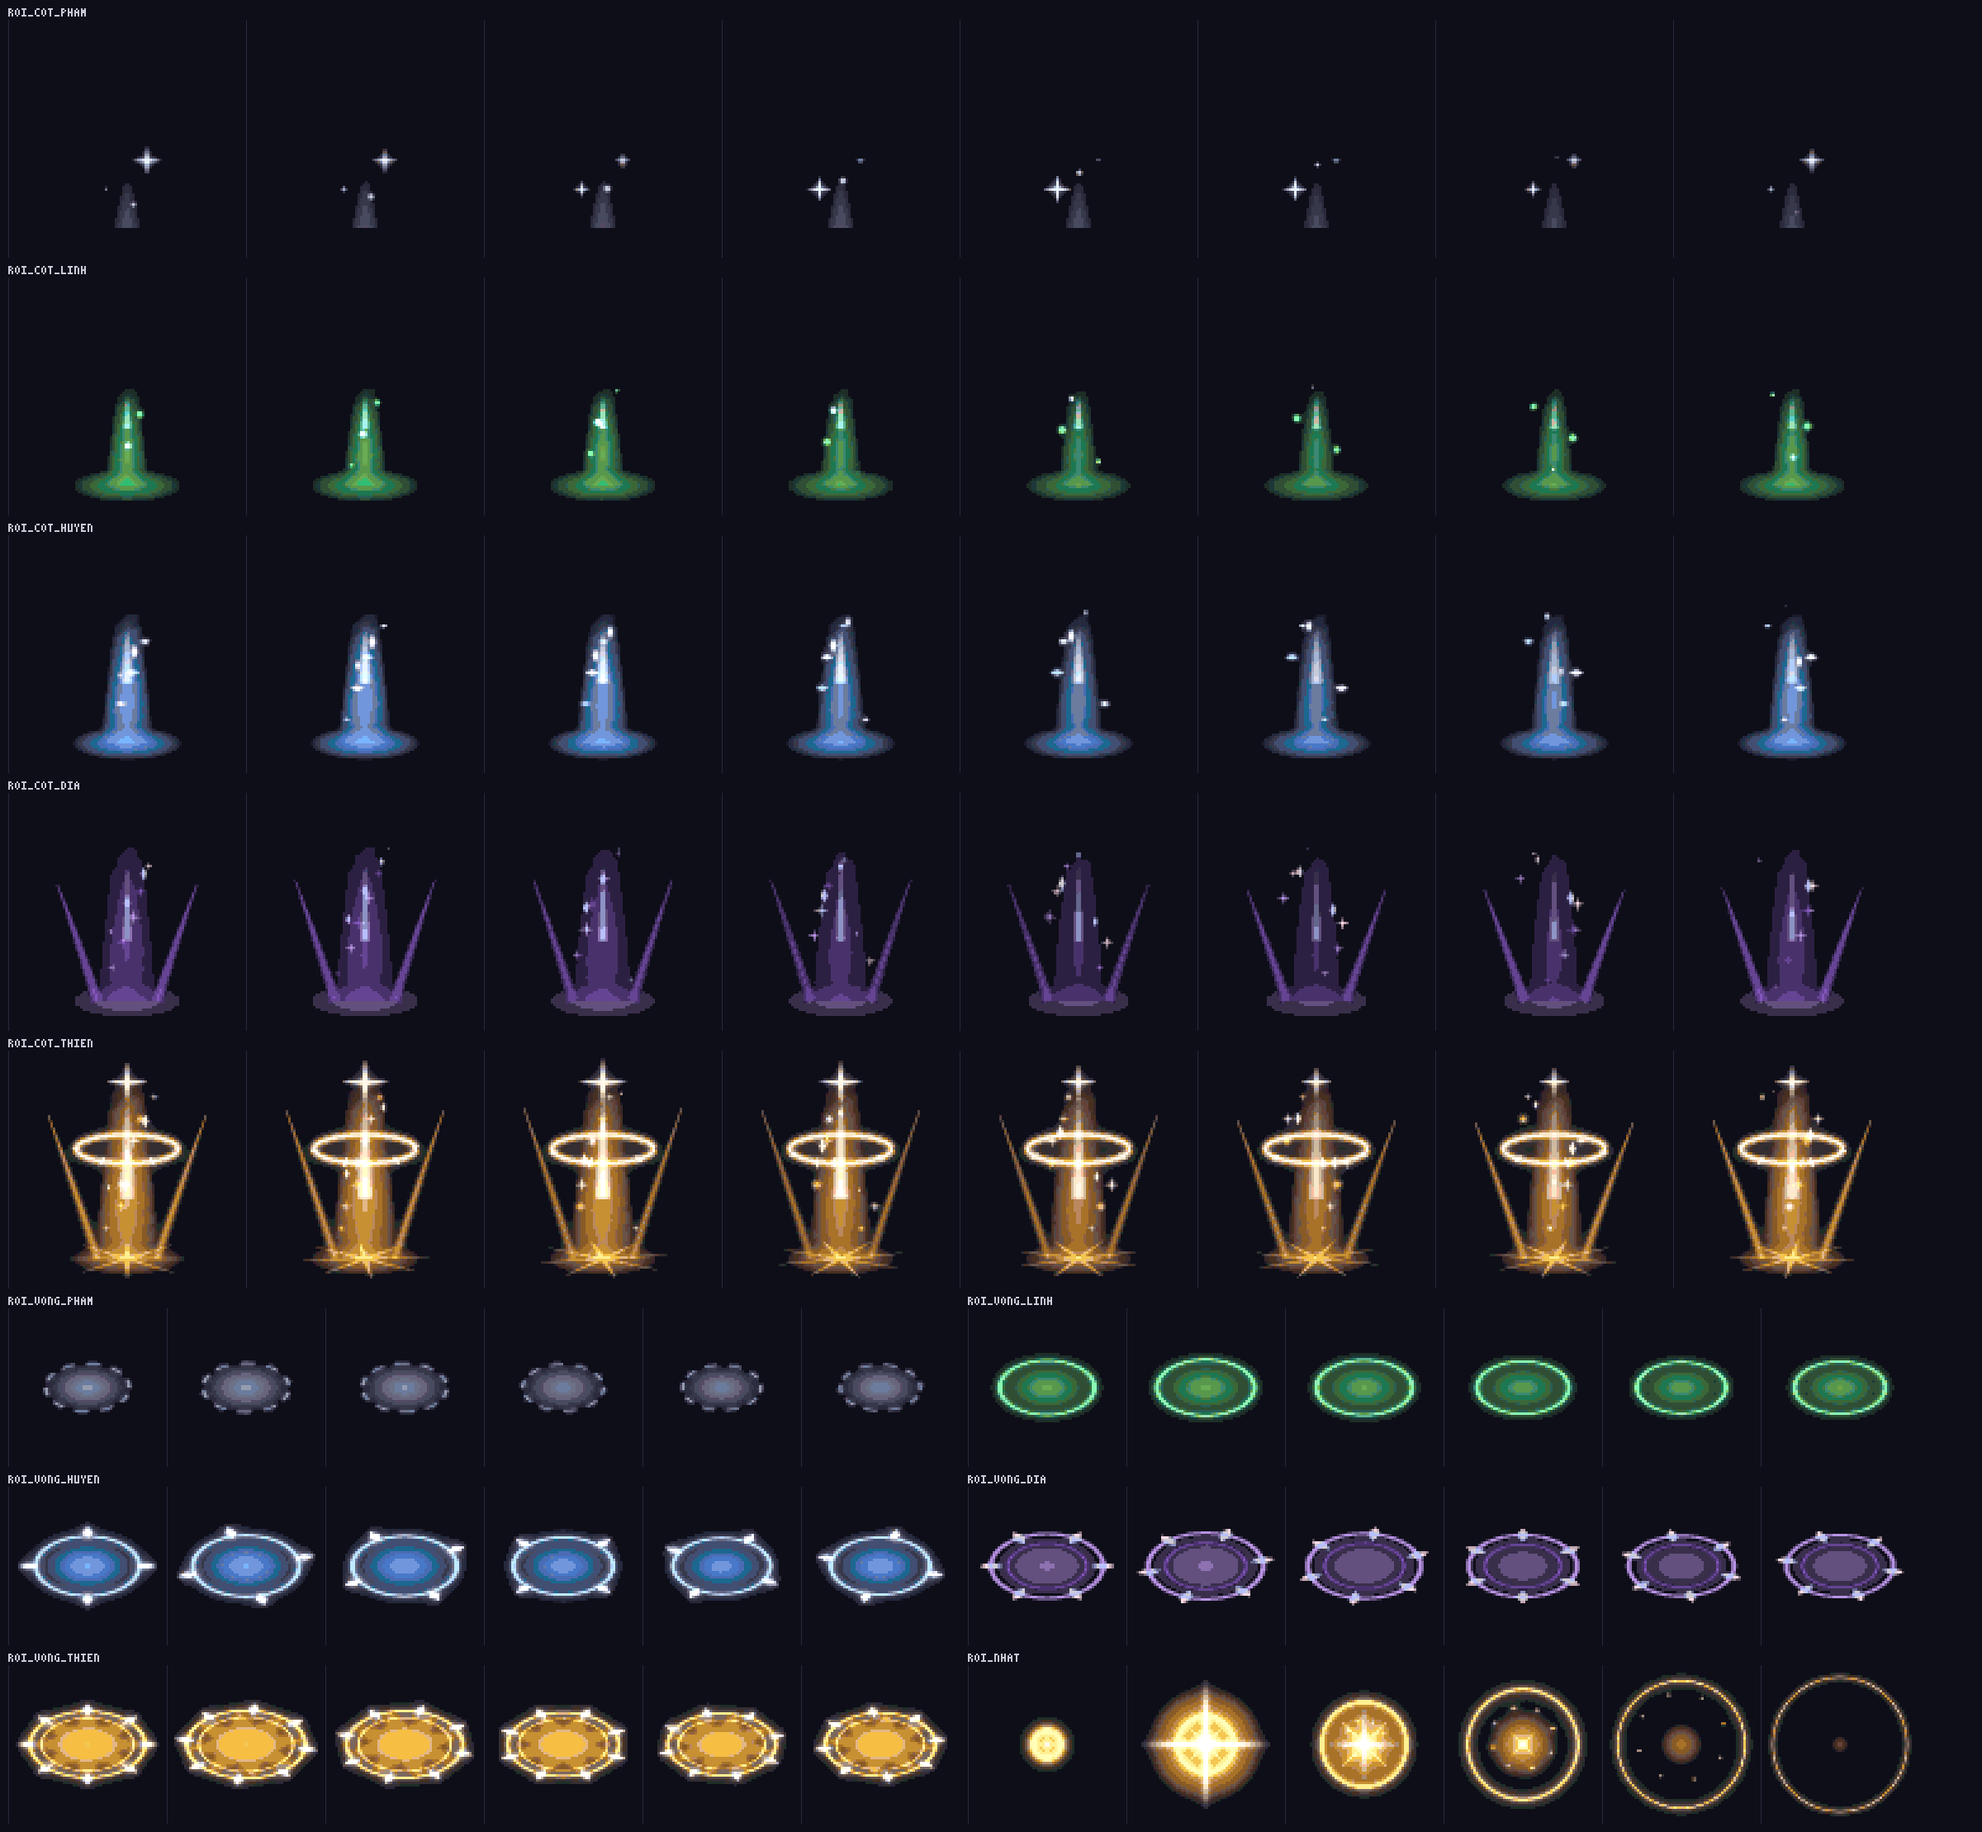
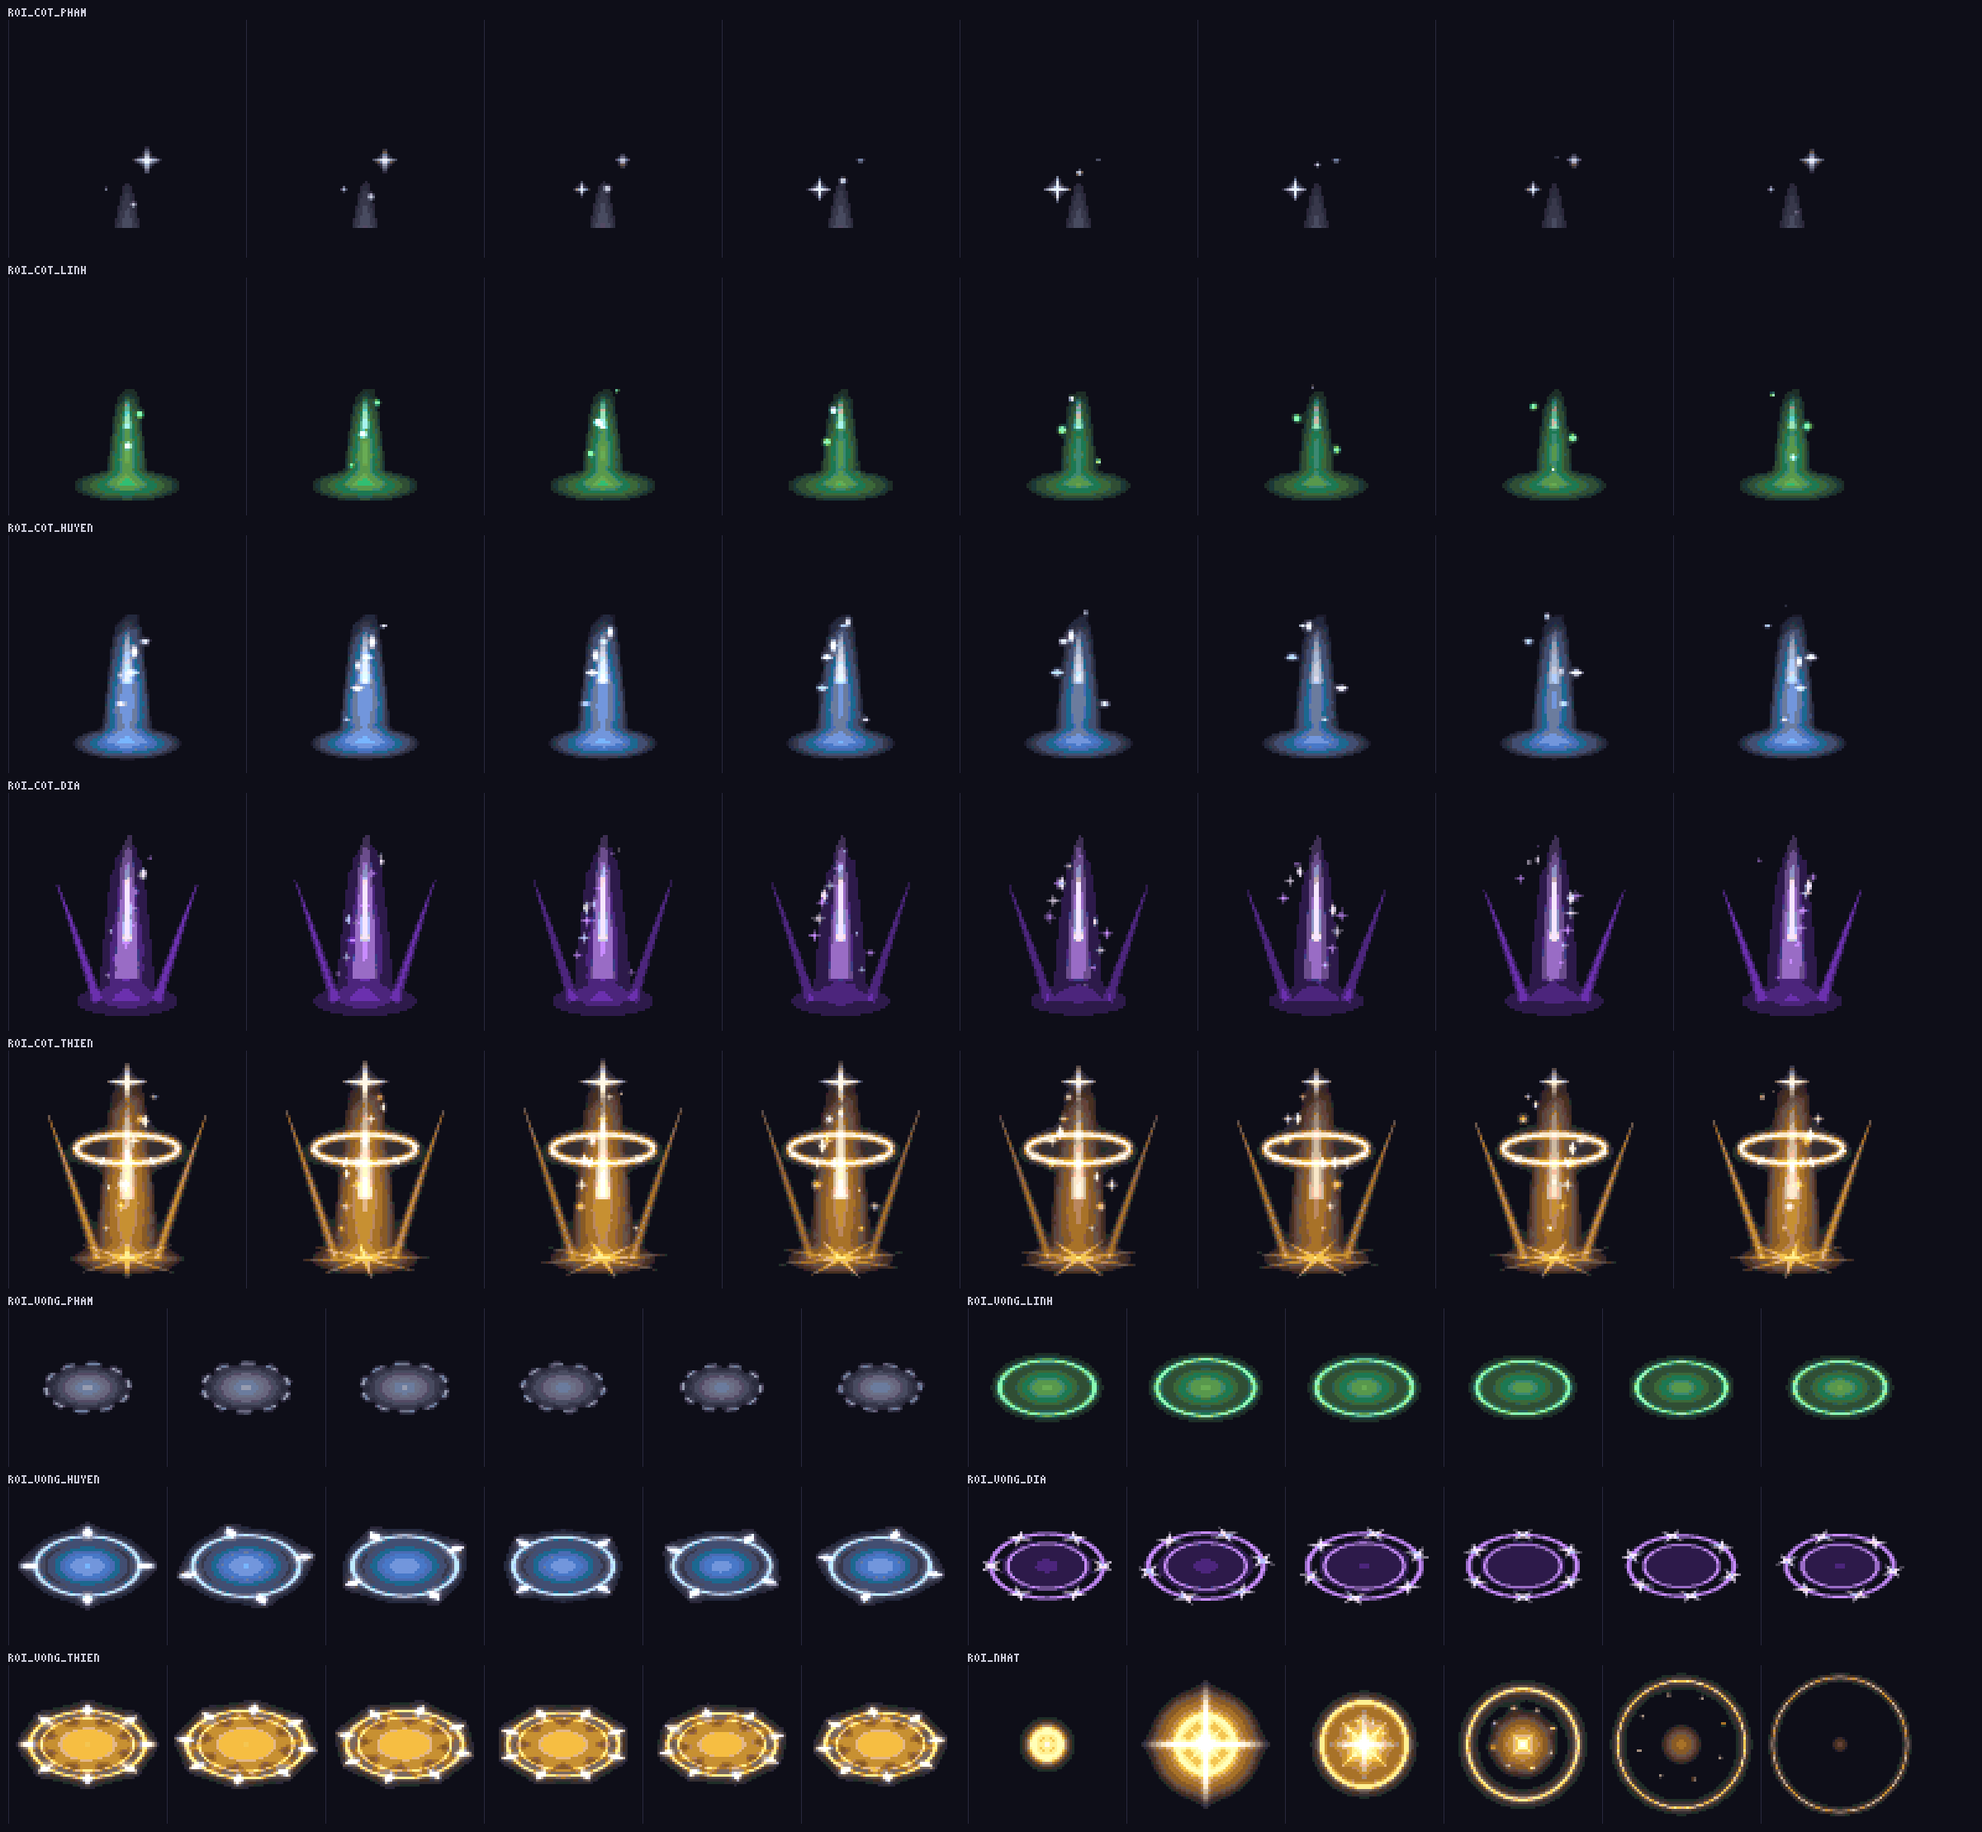
Toán tu tiên: Địa phẩm tím sáng rõ hơn Huyền (cột tím nhạt, lõi trắng tím, vòng sáng, sao)

diff --git a/art/src/fx_tien_ich/ti_roi.py b/art/src/fx_tien_ich/ti_roi.py
@@ -17,7 +17,7 @@ C = {  # body (glow edge), mid, core -> all are glow-ramp colours; the palette s
     "pham": dict(vi="Phàm", body="#8a8f9c", mid="#b8bdc3", core="#e8ecf0"),
     "linh": dict(vi="Linh", body="#22b05a", mid="#7aec9a", core="#e4ffe8"),
     "huyen": dict(vi="Huyền", body="#6aa8e8", mid="#b0dcff", core="#f2fbff"),
-    "dia": dict(vi="Địa", body="#8456be", mid="#a878dc", core="#e4d0fa"),   # clearly purple; alpha sheets (additive washes to lavender on grass)
+    "dia": dict(vi="Địa", body="#8a3ce0", mid="#c88cff", core="#f6e6ff"),   # clearly purple; alpha sheets (additive washes to lavender on grass)
     "thien": dict(vi="Thiên", body="#e8b02a", mid="#ffe27a", core="#fffbe4"),
 }
 HEIGHT = dict(pham=0.9, linh=1.4, huyen=1.85, dia=2.25, thien=2.6)
@@ -43,14 +43,14 @@ def make_cot(r):
              where="soft column of light standing on a dropped weapon of grade %s (pivot = base of the column)" % c["vi"])
     rng = fx.rng
     H, W = HEIGHT[r], WIDTH[r]
-    body = fx.mat("body", c["body"], grad=dict(src="attr", pow=0.55 if r == "dia" else 1.0, cpow=2.2), core=c["mid"])
-    core = fx.mat("core", c["core"], grad=dict(src="attr", pow=0.6))
+    body = fx.mat("body", c["body"], grad=dict(src="attr", pow=0.5 if r == "dia" else 1.0, cpow=2.2), core=("#8a3ce0" if r == "dia" else c["mid"]))
+    core = fx.mat("core", c["core"], grad=dict(src="attr", pow=0.12 if r == "dia" else 0.6))
     solid = fx.mat("solid", c["core"])
     midm = fx.mat("mid", c["mid"], grad=dict(src="attr", pow=0.7))
-    bloom = fx.mat("bloom", c["mid"] if r == "dia" else c["body"], grad=dict(src="attr", pow=0.6 if r == "dia" else 1.3))
+    bloom = fx.mat("bloom", c["body"], grad=dict(src="attr", pow=0.6 if r == "dia" else 1.3))
     pulse = lambda t, ph=0.0: 0.5 + 0.5 * math.sin(TAU * t + ph)
-    KB = dict(dia=0.85, thien=0.6).get(r, 1.0)      # ground bloom brightness
-    KC = 0.85                   # column alpha (dia is an alpha sheet)
+    KB = dict(dia=0.7, thien=0.6).get(r, 1.0)      # ground bloom brightness
+    KC = 0.8                   # column alpha (dia is an alpha sheet)
 
     if r == "pham":
         # a faint haze and two twinkling glints: a shimmer, no pillar
@@ -70,15 +70,19 @@ def make_cot(r):
     # the column: wide soft body + thin bright core
     cb = column(W, H, taper=0.5, p=0.85, base=0.35).build(fx, "col", body)
     fx.track(cb, lambda t, i: dict(sx=1.0 + 0.06 * math.sin(TAU * t + 0.5), op=(0.8 + 0.2 * math.sin(TAU * t + 1.0)) * KC))
+    if r == "dia":      # a luminous light-violet inner column (alpha sheets can carry bright pixels)
+        lm = fx.mat("light", "#c88cff", grad=dict(src="attr", pow=0.45))
+        lc = column(W * 0.46, H * 0.92, taper=0.65, p=0.7, base=0.5, y0=0.3).build(fx, "light", lm)
+        fx.track(lc, lambda t, i: dict(sx=1.0 + 0.05 * math.sin(TAU * t + 2.0), op=0.8 + 0.1 * math.sin(TAU * t)))
     if r != "linh":
         cc = column(W * (0.16 if r == "dia" else 0.26), H * 0.86 - 0.85, taper=0.7, p=1.0, y0=0.85).build(fx, "core", core)
-        fx.track(cc, lambda t, i: dict(op=0.75 + 0.25 * math.sin(TAU * t)))
+        fx.track(cc, lambda t, i: dict(op=1.0 if r == "dia" else 0.75 + 0.25 * math.sin(TAU * t)))
     else:
         cc = column(W * 0.22, 0.45, taper=0.7, p=1.0, y0=0.8).build(fx, "core", core)
         fx.track(cc, lambda t, i: dict(op=0.7 + 0.2 * math.sin(TAU * t)))
 
     kind = dict(linh="disc", huyen="diamond", dia="star", thien="star")[r]
-    n = dict(linh=3, huyen=4, dia=6, thien=8)[r]
+    n = dict(linh=3, huyen=4, dia=9, thien=8)[r]
     for j in range(n):
         x0 = (j / max(n - 1, 1) - 0.5) * W * 0.9 + rng.uniform(-0.05, 0.05)
         k = kind if not (r == "thien" and j % 3 == 0) else "star8"
@@ -90,13 +94,13 @@ def make_cot(r):
 
     if r in ("dia", "thien"):
         # two long blades crossing behind the column (a wing-like V)
-        bm = fx.mat("blade", c["body"], grad=dict(src="attr", pow=0.4 if r == "dia" else 0.8), core=c["mid"])
+        bm = fx.mat("blade", c["body"], grad=dict(src="attr", pow=0.4 if r == "dia" else 0.8), core=("#8a3ce0" if r == "dia" else c["mid"]))
         for sgn in (-1, 1):
             L = 1.7 if r == "dia" else 2.1
             mb = MB().strip([(0.42, 0.0), (0.42 + 0.45 * L * math.sin(0.34), 0.45 * L), (0.42 + L * math.sin(0.34), L * 0.97)], [0.17, 0.11, 0.02] if r == "dia" else [0.15, 0.1, 0.02], soft=True)
             mb.xform(sx=sgn)
             o = mb.build(fx, "blade%d" % sgn, bm)
-            fx.track(o, lambda t, i: dict(sy=1.0 + 0.05 * math.sin(TAU * t), op=(0.8 if r == "dia" else 0.38) + 0.12 * math.sin(TAU * t + 2.0)))
+            fx.track(o, lambda t, i: dict(sy=1.0 + 0.05 * math.sin(TAU * t), op=(0.7 if r == "dia" else 0.38) + 0.12 * math.sin(TAU * t + 2.0)))
 
     if r == "thien":
         # slow orbiting halo above the column's waist, crown star on top, flat star burst on the ground
@@ -135,11 +139,11 @@ def make_vong(r):
     body = fx.mat("body", c["body"], grad=dict(src="attr", pow=1.0), opacity=0.9)
     mid = fx.mat("mid", c["mid"])
     core = fx.mat("core", c["core"])
-    glow = fx.mat("glow", c["mid"] if r == "dia" else c["body"], grad=dict(src="attr", pow=0.7 if r == "dia" else 1.4), opacity={"pham": 0.2, "linh": 0.35, "huyen": 0.45, "dia": 0.5, "thien": 0.55}[r])
+    glow = fx.mat("glow", c["body"], grad=dict(src="attr", pow=0.7 if r == "dia" else 1.4), opacity={"pham": 0.2, "linh": 0.35, "huyen": 0.45, "dia": 0.5, "thien": 0.55}[r])
     pulse = lambda t, ph=0.0: math.sin(TAU * t + ph)
 
     gd = glow_disc(R * 0.98, 36).build(fx, "glow", glow)
-    GO = dict(dia=0.7, thien=0.55).get(r, 0.9)
+    GO = dict(dia=0.45, thien=0.55).get(r, 0.9)
     fx.track(gd, lambda t, i: dict(s=1.0 + 0.05 * pulse(t), op=GO * (0.9 + 0.1 * pulse(t, 1.0))))
 
     def spin(ob, sym, rev=1.0, **kw):
@@ -160,11 +164,11 @@ def make_vong(r):
         spin(mb.build(fx, "ticks", core), 4)
         return fx
     if r == "dia":
-        spin(MB().ring(0, 0, R * 0.7, 0.045, seg=40).build(fx, "inner", body), 1, rev=-1.0)
+        spin(MB().ring(0, 0, R * 0.7, 0.05, seg=40).build(fx, "inner", mid), 1, rev=-1.0)
         mb = MB()
         for k in range(6):
             a = TAU * k / 6
-            mb.diamond(R * math.cos(a), R * math.sin(a), 0.34, 0.2, a)
+            mb.star(R * math.cos(a), R * math.sin(a), 4, 0.2, 0.05, a + PI / 4)
         spin(mb.build(fx, "nodes", core), 6)
         return fx
     # thien
